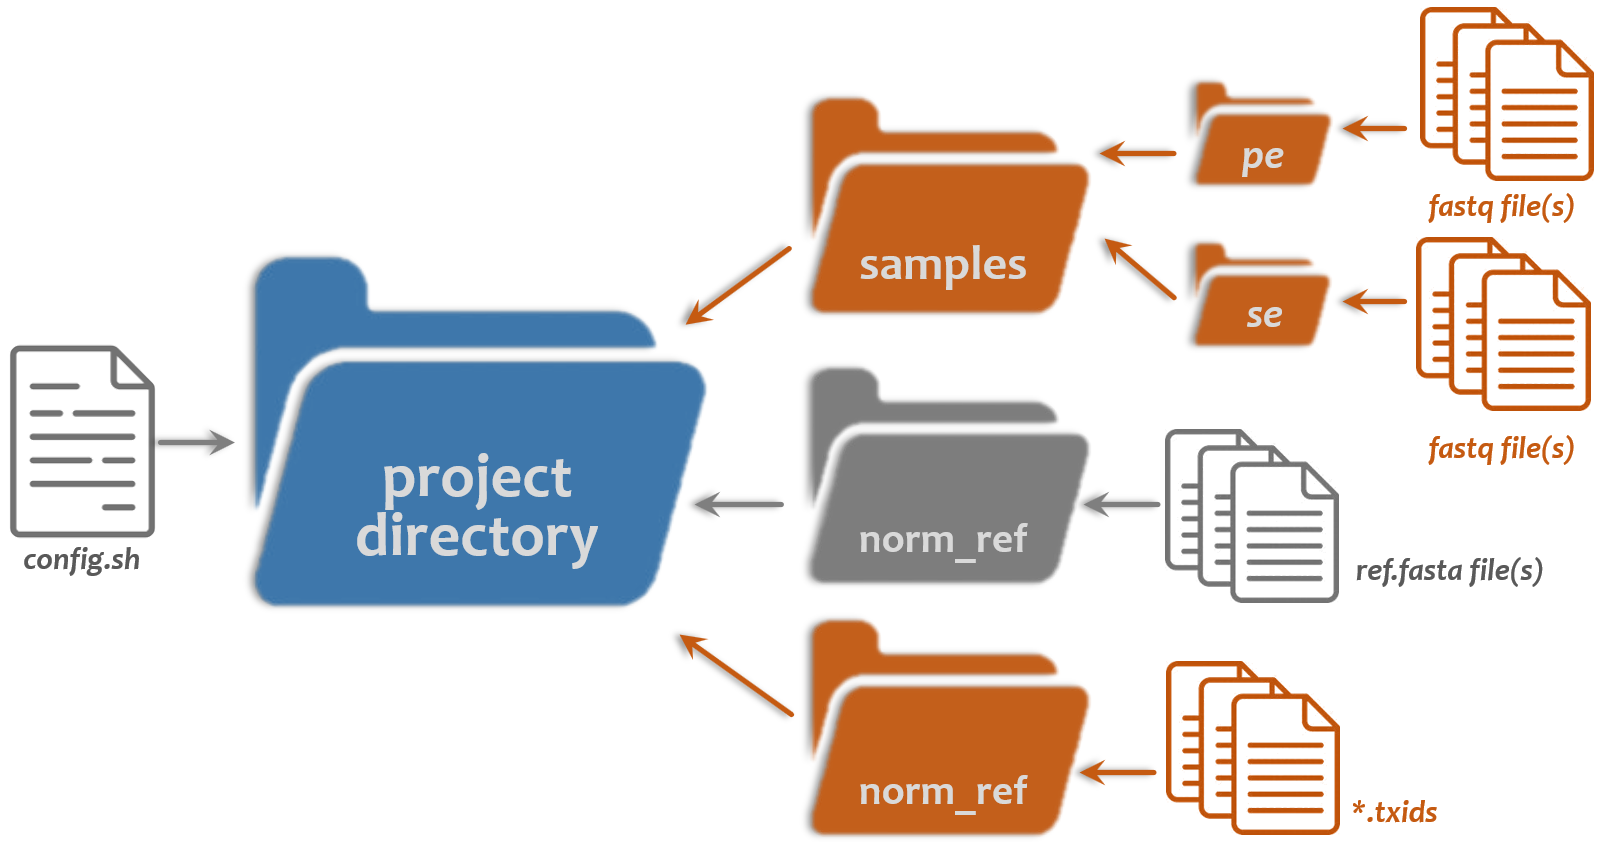
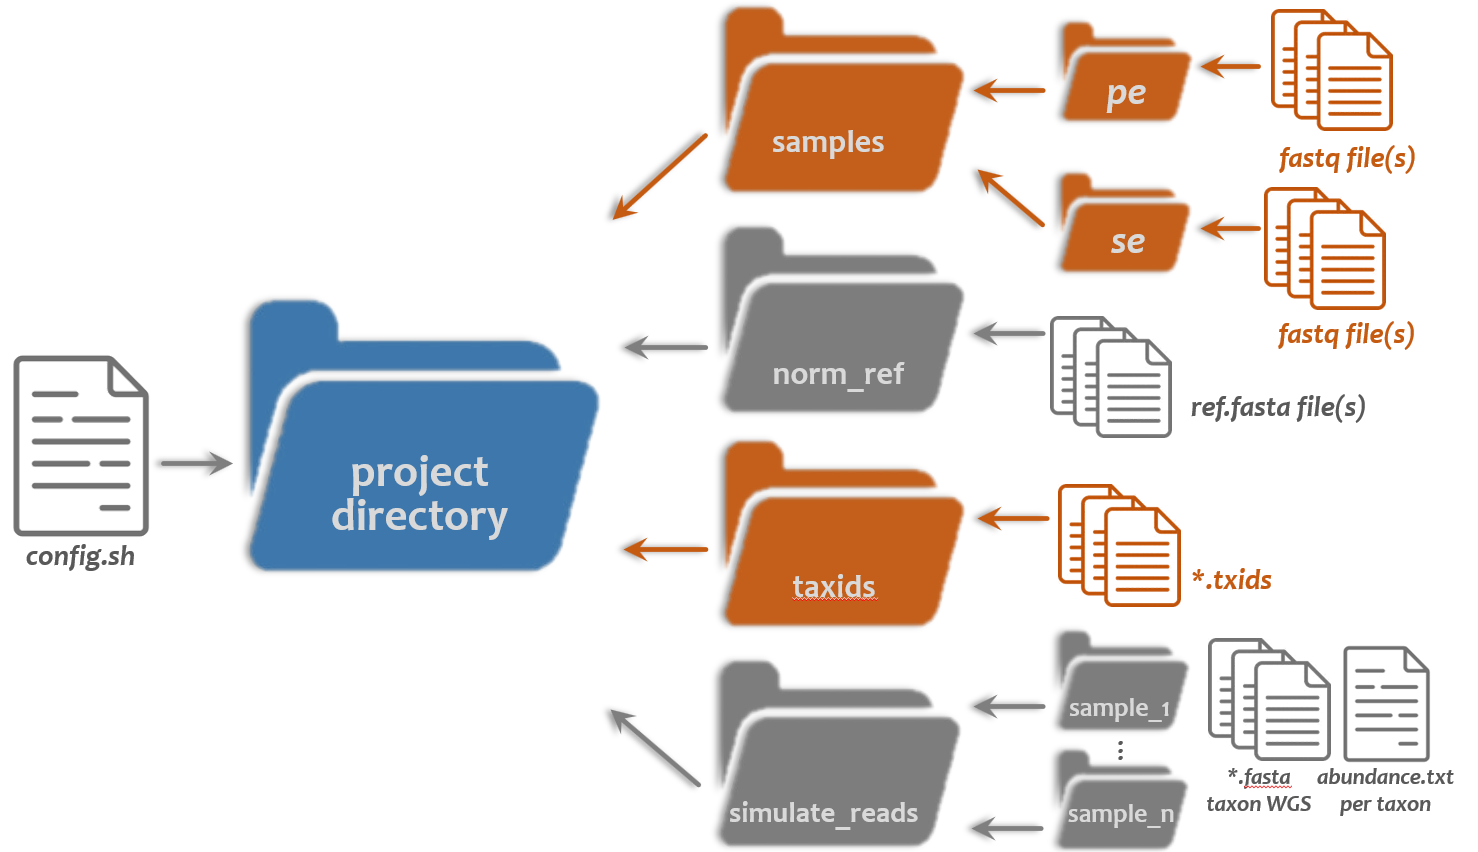
update ReadMe with workflow

diff --git a/README.md b/README.md
@@ -99,7 +99,7 @@ A project directory should contain the following sub-directories:
 - **Optional**: Normalzation Reference Genomes **if you are normalizing data**
   * This is where reference genomes for normalization will go. Reference genomes must be in **Fasta format**.
 
-  <img src="https://github.com/bodeolukolu/Qmatey/blob/master/misc/project_dir_setup.PNG" width="804" height="427">
+  <img src="https://github.com/bodeolukolu/Qmatey/blob/master/misc/project_dir_setup.PNG" width="739" height="426">
 
 
 ### Prepare database for Local MegaBLAST
@@ -156,7 +156,7 @@ Provide fasta and map_taxids files. Qmatey will use NCBI BLAST tool, makeblastdb
 
 
 ### Overview of workflow
-- In progress
+<img src="https://github.com/bodeolukolu/Qmatey/blob/master/misc/Qmatey_workflow.PNG" width="876" height="301">
 
 ### configuration
 Using a text editor, save a file containing any of the following variables as 'config.sh' file and include it in your project directory.
